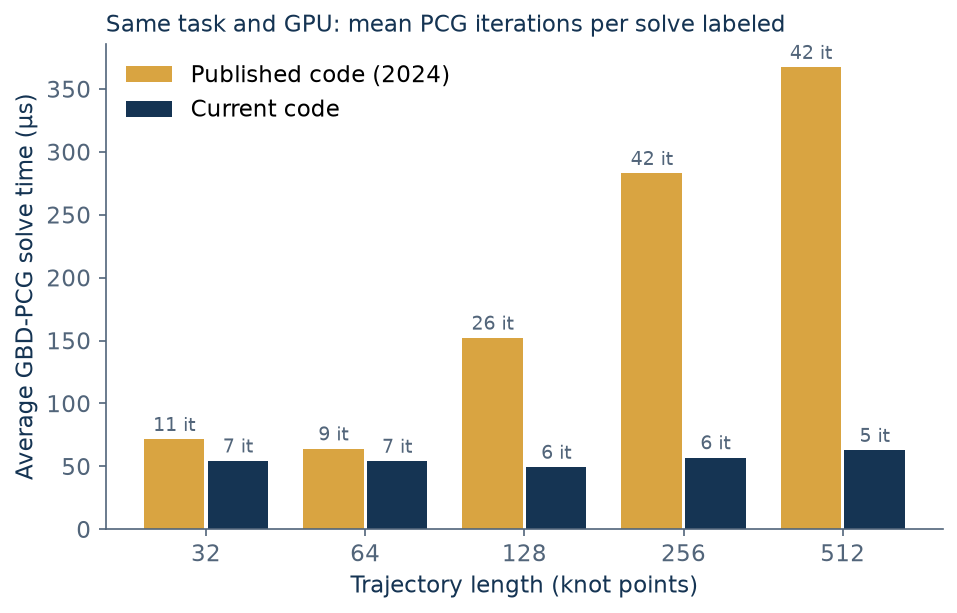
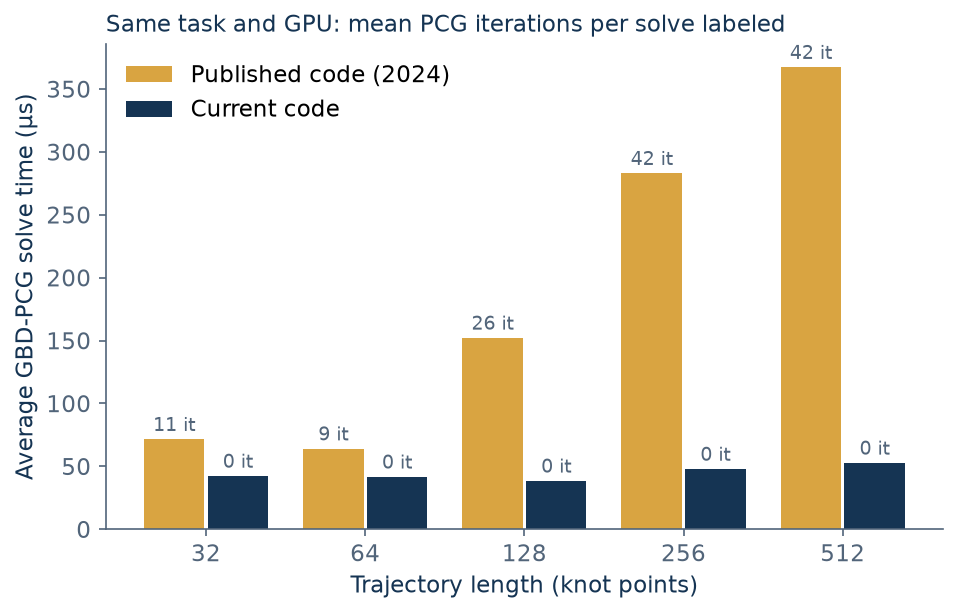
Timing refresh from the October 3 window (driver 758bcd2): ICRA tables, fig8 table, plots, site text

diff --git a/docs/index.html b/docs/index.html
@@ -29,7 +29,7 @@
   </div></section>
   <section class="section wrap" id="results">
     <div class="eyebrow">02 / RESULTS</div>
-    <div class="research-grid"><div><h2>A solver designed<br>for longer horizons.</h2><p>MPCGPU solves the structured linear systems in nonlinear MPC with GPU-accelerated PCG. On the five-goal pick-and-place task from our paper, the current code compares GBD-PCG with CPU QDLDL on an NVIDIA RTX 5090.</p><p>GBD-PCG averages <strong>49–63 µs per linear-system solve</strong> at every horizon from 32 to 512 knot points, <strong>1.6× to 17× faster</strong> than QDLDL. It sustains kilohertz control rates with horizons as long as 512 knot points.</p><p>The gain over the published results comes mainly from fewer PCG iterations per solve. A Gauss-Newton cost Hessian and a corrected horizon update make the controller's linear systems easier, and GLASS makes each iteration slightly cheaper. <a class="text-link" href="https://github.com/A2R-Lab/MPCGPU/blob/main/docs/speedup-attribution.md">How the results changed ↗</a></p><a class="text-link" href="https://github.com/A2R-Lab/MPCGPU/blob/main/docs/icra-replication.md">Read the protocol and complete results ↗</a><aside class="evidence"><strong>Current results</strong><p>RTX 5090 · Intel Core Ultra 9 285K · CUDA 13.2, measured September 30, 2026, three repeats per configuration. Historical results for the original code, on an RTX 4090 with CUDA 12.1, are in <a href="https://arxiv.org/abs/2309.08079">our ICRA 2024 paper</a>.</p></aside></div><figure><img src="assets/current-linsys-time.png" width="972" height="613" loading="lazy" alt="Current average linear-system solve times for CPU QDLDL and GPU GBD-PCG from 32 to 512 knot points; GBD-PCG stays between 50 and 64 microseconds while QDLDL grows to 1100 microseconds."><figcaption>Average linear-system solve time on the pick-and-place task at 500 Hz, current code. Grey labels give the paper's speedups.</figcaption></figure></div>
+    <div class="research-grid"><div><h2>A solver designed<br>for longer horizons.</h2><p>MPCGPU solves the structured linear systems in nonlinear MPC with GPU-accelerated PCG. On the five-goal pick-and-place task from our paper, the current code compares GBD-PCG with CPU QDLDL on an NVIDIA RTX 5090.</p><p>GBD-PCG averages <strong>38–53 µs per linear-system solve</strong> at every horizon from 32 to 512 knot points, <strong>2.1× to 20× faster</strong> than QDLDL. It sustains kilohertz control rates with horizons as long as 512 knot points.</p><p>The gain over the published results comes mainly from fewer PCG iterations per solve. A Gauss-Newton cost Hessian and a corrected horizon update make the controller's linear systems easier, GLASS makes each iteration slightly cheaper, and the SQP driver no longer synchronizes the host inside a step. <a class="text-link" href="https://github.com/A2R-Lab/MPCGPU/blob/main/docs/speedup-attribution.md">How the results changed ↗</a></p><a class="text-link" href="https://github.com/A2R-Lab/MPCGPU/blob/main/docs/icra-replication.md">Read the protocol and complete results ↗</a><aside class="evidence"><strong>Current results</strong><p>RTX 5090 · Intel Core Ultra 9 285K · CUDA 13.2, measured October 3, 2026, three repeats per configuration. Historical results for the original code, on an RTX 4090 with CUDA 12.1, are in <a href="https://arxiv.org/abs/2309.08079">our ICRA 2024 paper</a>.</p></aside></div><figure><img src="assets/current-linsys-time.png" width="972" height="613" loading="lazy" alt="Current average linear-system solve times for CPU QDLDL and GPU GBD-PCG from 32 to 512 knot points; GBD-PCG stays between 50 and 64 microseconds while QDLDL grows to 1100 microseconds."><figcaption>Average linear-system solve time on the pick-and-place task at 500 Hz, current code. Grey labels give the paper's speedups.</figcaption></figure></div>
     <figure class="wide-figure"><img src="assets/current-sqp-iterations.png" width="1564" height="475" loading="lazy" alt="Average SQP iterations per control step at 250 Hz, 500 Hz and 1 kHz for QDLDL and GBD-PCG across horizons, with the paper's values beneath each cell."><figcaption>SQP iterations completed per control step within the control period. QDLDL cannot keep up at 512 knot points and 1 kHz.</figcaption></figure>
   </section>
   <section class="software section" id="software"><div class="wrap">

diff --git a/docs/icra-replication.md b/docs/icra-replication.md
@@ -81,47 +81,46 @@ Repeated trials are bit-identical: the signed-suite gates run two trials at N = 
 for each backend and compare state hashes. The paper reports about 10 cm average L1
 error; every configuration here stays below that.
 
-## Timing results (October 1, 2026)
+## Timing results (October 3, 2026)
 
-Collected in an assigned quiet window on the RTX 5090 / Core Ultra 9 285K / CUDA 13.2 host,
-source `04764ee`, receipt `bccb34a`, three independent repeats per workload. Raw samples,
-summaries and provenance are in `tmp/timing/mpcgpu-icra-20260930-205239` (local, not in Git).
-The paper used an RTX 4090, an i9-12900K and CUDA 12.1, and the model and EE frame have since been corrected. Compare ratios and trends,
-not raw latency.
-
-These tables predate the October 3, 2026 SQP-driver change (one host sync per step, graph-replayed
-segments, no copy-backs; [speedup-attribution.md](speedup-attribution.md) section 4). The PCG kernel
-is unchanged, but the linear-system time no longer includes two blocking statistics copies (about
-13 µs per solve on the figure-eight task) and each SQP step is shorter, so the Figure 4/5 bars should
-move down and the Figure 6 iteration counts up when these workloads are re-collected. Plans for that
-re-collection are prepared (`tmp/timing-prepared/icra-*`, local); the numbers below stand until then.
+Collected in an assigned exclusive window on the RTX 5090 / Core Ultra 9 285K / CUDA 13.2 host,
+source `758bcd2` (the October 3 SQP driver; the tree `main` carries), receipt `758bcd2`, three
+independent repeats per workload. Raw samples, summaries and provenance are in
+`tmp/timing/fixedcost-branch-20261003-115140` (local, not in Git). The same window first re-ran the
+previous driver (`4317690`, `tmp/timing/fixedcost-main-20261003-115140`), which reproduced the
+October 1 tables within 2 µs at every horizon; the differences below are the driver change
+([speedup-attribution.md](speedup-attribution.md) section 4): the linear-system time no longer
+includes two blocking statistics copies (−9 to −13 µs per solve) and each SQP step is shorter, so
+more iterations fit a control period. The PCG kernel is unchanged. The paper used an RTX 4090, an
+i9-12900K and CUDA 12.1, and the model and EE frame have since been corrected. Compare ratios and
+trends, not raw latency.
 
 ### Figure 4: average linear-system solve time at 500 Hz
 
 | N | QDLDL (µs) | GBD-PCG (µs) | Speedup | Paper speedup | PCG mean L2 error (m) |
 | ---: | ---: | ---: | ---: | ---: | ---: |
-| 32 | 89 | 54 | 1.6× | 1.0× | 0.0407 |
-| 64 | 162 | 54 | 3.0× | 1.5× | 0.0627 |
-| 128 | 277 | 49 | 5.6× | 1.9× | 0.0108 |
-| 256 | 535 | 57 | 9.4× | 3.6× | 0.0110 |
-| 512 | 1074 | 63 | 17.1× | 3.3× | 0.0132 |
+| 32 | 89 | 42 | 2.1× | 1.0× | 0.0408 |
+| 64 | 160 | 42 | 3.8× | 1.5× | 0.0638 |
+| 128 | 273 | 38 | 7.1× | 1.9× | 0.0107 |
+| 256 | 534 | 48 | 11.2× | 3.6× | 0.0111 |
+| 512 | 1077 | 53 | 20.4× | 3.3× | 0.0133 |
 
-Across the three repeats, the per-repeat means spread by at most 2.8% of their mean for PCG and
-6.6% for QDLDL. The tables are printed by `tools/icra_tables.py` from the run directory. GBD-PCG time stays nearly flat with horizon here, so the speedups are much
+Across the three repeats, the per-repeat means spread by at most 8.0% of their mean for PCG and
+1.8% for QDLDL. Before the October 3 driver change the same workloads gave 55 / 54 / 49 / 57 / 65 µs
+(1.6–16.5×) in the same window. The tables are printed by `tools/icra_tables.py` from the run directory. GBD-PCG time stays nearly flat with horizon here, so the speedups are much
 larger than published. [The attribution](speedup-attribution.md) traces this to fewer PCG iterations
 per solve, from controller fixes; GLASS and the new GPU contribute little.
 
 ### Figure 5: solve-time distribution at N = 128
 
-QDLDL: median 272 µs, fastest 266 µs, 99.9th percentile 313 µs, slowest 1559 µs. Tails are
-compared with the 99.9th percentile so that single outliers do not dominate; GBD-PCG at ε = 10⁻⁴
-has one such outlier (one solve of about 6.1 ms among 156 000), which is the 19.5× entry below.
+QDLDL: median 272 µs, fastest 267 µs, 99.9th percentile 299 µs, slowest 981 µs. Tails are
+compared with the 99.9th percentile so that single outliers do not dominate.
 
 | ε | Median (µs) | Mean (µs) | ≥10× faster than fastest QDLDL | Paper | Slowest / QDLDL p99.9 | ≥2× QDLDL p99.9 | Mean L2 error (m) |
 | --- | ---: | ---: | ---: | ---: | ---: | ---: | ---: |
-| 10⁻⁴ | 23 | 49 | 79% | 65% | 19.5× | 1.0% | 0.0108 |
-| 5·10⁻⁵ | 23 | 57 | 74% | 52% | 2.8× | 1.3% | 0.0118 |
-| 10⁻⁵ | 23 | 69 | 67% | 20% | 4.0× | 1.5% | 0.0141 |
+| 10⁻⁴ | 11 | 38 | 83% | 65% | 2.8× | 1.0% | 0.0107 |
+| 5·10⁻⁵ | 11 | 45 | 79% | 52% | 2.8× | 1.2% | 0.0121 |
+| 10⁻⁵ | 15 | 58 | 73% | 20% | 2.8× | 1.4% | 0.0140 |
 
 The paper's ordering holds: tighter tolerances shift mass out of the fast mode, and PCG
 keeps a slow mode near the QDLDL time.
@@ -130,32 +129,38 @@ keeps a slow mode near the QDLDL time.
 
 | Solver | Rate | N = 32 | 64 | 128 | 256 | 512 |
 | --- | --- | ---: | ---: | ---: | ---: | ---: |
-| QDLDL | 250 Hz | 19.9 (21) | 14.0 (14) | 9.2 (8) | 5.0 (4) | 2.0 (2) |
-| QDLDL | 500 Hz | 9.3 (10) | 6.9 (6.5) | 4.0 (4) | 2.0 (2) | 1.0 (1) |
+| QDLDL | 250 Hz | 18.7 (21) | 13.5 (14) | 9.6 (8) | 5.0 (4) | 2.2 (2) |
+| QDLDL | 500 Hz | 9.0 (10) | 6.8 (6.5) | 4.6 (4) | 2.0 (2) | 1.0 (1) |
 | QDLDL | 1000 Hz | 4.0 (4) | 3.0 (3) | 2.0 (1) | 1.0 (X) | lost (X) |
-| GBD-PCG | 250 Hz | 21.7 (22.2) | 21.4 (19.7) | 18.3 (15.4) | 16.0 (5.2) | 10.2 (4.4) |
-| GBD-PCG | 500 Hz | 10.9 (10.3) | 10.9 (10.6) | 9.9 (8) | 8.7 (4.6) | 5.2 (3) |
-| GBD-PCG | 1000 Hz | 5.3 (4.9) | 5.3 (5.2) | 5.0 (3.7) | 4.3 (2.4) | 2.6 (1.7) |
+| GBD-PCG | 250 Hz | 24.3 (22.2) | 24.0 (19.7) | 20.0 (15.4) | 17.0 (5.2) | 10.6 (4.4) |
+| GBD-PCG | 500 Hz | 12.4 (10.3) | 12.5 (10.6) | 10.9 (8) | 9.3 (4.6) | 5.4 (3) |
+| GBD-PCG | 1000 Hz | 6.2 (4.9) | 6.3 (5.2) | 5.7 (3.7) | 4.9 (2.4) | 2.7 (1.7) |
 
 Paper values are in parentheses. "lost" marks QDLDL at N = 512 and 1 kHz: one QDLDL solve
 exceeds the 1 ms budget, no SQP iteration completes and the arm leaves the circuit. The
 harness records it as a rate not met. QDLDL also averages just under one iteration at
 N = 256 and 1 kHz and at N = 512 and 500 Hz, and still tracks within 1.8 cm there.
-GBD-PCG completes more iterations than in the paper at every N ≥ 128.
+GBD-PCG completes more iterations than in the paper at every horizon and rate (before the
+October 3 driver change it did so at N ≥ 128; the shorter step adds about one iteration per
+period at 500 Hz).
 
 ### Figure-eight workspace A/B (same source, not the paper task)
 
-Internal SQP time per control update, medians of three repeats, from `tmp/timing/mpcgpu-fig8-20260930-202442`.
-Reused workspaces keep allocations, streams and cuBLAS handles; fresh ones rebuild them per
-solve, approximating the earlier code. Tracking is identical between the two modes.
+Internal SQP time per control update, medians of three repeats, from
+`tmp/timing/fixedcost-branch-20261003-014302` (October 3 driver, exclusive window). Reused
+workspaces keep allocations, streams, cuBLAS handles and — since October 3 — the page-locked
+result arena and the captured launch graphs; fresh ones rebuild everything per solve,
+approximating the earlier code (a per-call workspace does not page-lock or capture graphs).
+Tracking is identical between the two modes. The previous driver measured 184 / 178 / 194 / 215 /
+346 µs reused and 236 / 231 / 247 / 282 / 430 µs fresh for PCG in the same kind of window.
 
 | N | PCG reused (µs) | PCG fresh (µs) | QDLDL reused (µs) | QDLDL fresh (µs) |
 | ---: | ---: | ---: | ---: | ---: |
-| 32 | 184 | 233 | 240 | 312 |
-| 64 | 178 | 227 | 310 | 396 |
-| 128 | 194 | 243 | 435 | 584 |
-| 256 | 215 | 278 | 716 | 987 |
-| 512 | 346 | 422 | 1388 | 1862 |
+| 32 | 138 | 239 | 221 | 333 |
+| 64 | 134 | 235 | 276 | 418 |
+| 128 | 155 | 242 | 415 | 608 |
+| 256 | 189 | 279 | 716 | 1014 |
+| 512 | 311 | 422 | 1381 | 1905 |
 
 ## Findings
 
@@ -172,8 +177,8 @@ solve, approximating the earlier code. Tracking is identical between the two mod
   5·10⁻⁶, PCG passes within 11 cm of the second goal and fails the 5 cm visit check. The
   tighter values from the paper's own N = 32 sweep, 2.5·10⁻⁶ and 10⁻⁶, bring every goal
   within 5 cm, so 2.5·10⁻⁶ is the N = 32 default since October 1, 2026, and the tables above
-  use it: against the earlier 5·10⁻⁶ run, N = 32 PCG needs 7.3 instead of 6.4 iterations per
-  solve (54 instead of 50 µs, 1.6× instead of 1.8× over QDLDL) and its mean tracking error
+  use it: against the earlier 5·10⁻⁶ run (October 1 driver), N = 32 PCG needs 7.3 instead of 6.4
+  iterations per solve (54 instead of 50 µs then, 1.6× instead of 1.8× over QDLDL) and its mean tracking error
   falls from 4.9 to 4.1 cm. This matches the paper's observation that looser
   tolerances trade tracking for speed.
 - **Inexact PCG steps end some SQP loops early.** The line search fails until ρ
@@ -199,7 +204,8 @@ solve, approximating the earlier code. Tracking is identical between the two mod
   for the main integration candidate).
 - [x] Paper-task timing manifest: `tools/timing.py prepare --task icra` builds the
   Figure 4, 5 and 6 workloads (see the timing section of [development](development.md)).
-- [x] Paper-task timing collection on October 1 (tables above; the September 30 collection
+- [x] Paper-task timing re-collected on October 3 with the fixed-cost driver (tables above).
+- [x] Paper-task timing collection on October 1 (the September 30 collection
   preceded the N = 32 tolerance change), labeled by host.
 - [x] Attribute the larger-than-published PCG speedups ([attribution](speedup-attribution.md), October 1).
 - [x] Website shows the current results with hardware and date; the paper holds the

diff --git a/docs/speedup-attribution.md b/docs/speedup-attribution.md
@@ -1,9 +1,10 @@
-# Why the ICRA results moved (attribution, October 1, 2026)
+# Why the ICRA results moved (attribution, October 1–3, 2026)
 
 The October 1, 2026 timing on the RTX 5090 gave GBD-PCG average linear-system times of
 49–63 µs at every horizon, against 75–360 µs in the paper. QDLDL on the CPU stayed within
 about 15% of the paper, so the speedup over QDLDL grew from 1.0–3.6× to 1.6–17×. This
-document splits that change into its causes.
+document splits that change into its causes. Section 4 adds the October 3 driver change,
+after which the same workloads give 38–53 µs and 2.1–20× ([current tables](icra-replication.md)).
 
 Average PCG solve time is iterations per solve times time per iteration, plus a fixed launch
 and copy-back cost. Each factor was measured separately.
@@ -127,8 +128,10 @@ wall time between a device sync before and after the linear system, so `TIME_LIN
 those two syncs per step; the figure-eight numbers above include them. Second, that linear-system
 time itself drops by about 13 µs per solve (23.4 → 10.5 µs at N = 64 on the figure-eight task) because
 the two blocking 4-byte copies of the PCG statistics that used to sit inside the timed region are gone.
-When the ICRA workloads are re-collected, expect the GBD-PCG bars in section 3 to move down by about
-that much and the Figure-6 iteration counts to rise; the kernels themselves are unchanged.
+Re-collecting the ICRA workloads in the same window (October 3, both drivers back to back,
+[icra-replication.md](icra-replication.md)) showed exactly that: GBD-PCG 55 / 54 / 49 / 57 / 65 µs
+→ 42 / 42 / 38 / 48 / 53 µs at N = 32…512 (−9 to −13 µs), speedups 1.6–16.5× → 2.1–20.4×, and about
+one more SQP iteration per 500 Hz period; the kernels themselves are unchanged.
 
 Collection: both legs ran from `tools/timing.py` plans prepared from their own commits, each in a
 quiet window with no other process on the GPU (`a2rlab-timing-chain/runs/fixedcost-ab-20261003-001557`

diff --git a/docs/website.md b/docs/website.md
@@ -21,7 +21,7 @@ page resolves.
 `assets/architecture.png` and `pick-place.png` are figure-region renders of Figures 2 and 3
 from our ICRA 2024 paper, arXiv:2309.08079v3 (https://arxiv.org/pdf/2309.08079).
 `assets/current-linsys-time.png` and `current-sqp-iterations.png` are rendered by
-`tools/plot_timing.py` from the October 1, 2026 timing runs of the current code (see
+`tools/plot_timing.py` from the October 3, 2026 timing runs of the current code (see
 docs/icra-replication.md). The MPCGPU code, documentation, website and these figures are
 released under the repository's MIT license.
 
